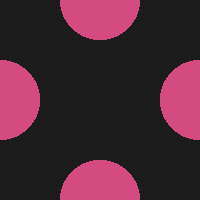
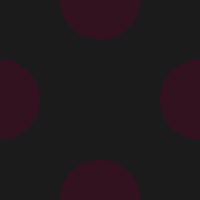
Add files via upload

diff --git a/index.html b/index.html
@@ -23,7 +23,7 @@
 			<div class="title-message">
 			Coming soon...
 			</div>
-			<button class="toggledarkbutton" onclick="toggleLightDark()"><img src="Photos/toggledarklight.png" class="toggledarkicon" id="toggledarkicon"></button>
+			<button class="toggledarkbutton" onclick="toggleLightDark()"><img src="Photos/toggledark.png" class="toggledarkicon" id="toggledarkicon"></button>
       <div class="navbar">
 <a href="google.com">What's up?</a>
         <div class="search-container">
@@ -38,14 +38,16 @@
       </div>
 		</div>
 		<div class="main-content">
-      Yo
+			<div class="introduction">
+				Yo
+			</div>
 		</div>
 	</div>
 	<!Importiert script.js!>
   <!JS steht für JavaScript!>
   <script src="script.java"></script>
   <script>var content = document.querySelector('.content'); if(localStorage.getItem('darkmode')!=null){ content.classList.add("dark-mode");}
-  var content = document.querySelector('.toggledarkbutton'); if(localStorage.getItem('darkmode')!=null){ $('.toggledarkbutton').addClass('dark-mode toggledarkbutton-dark'); $('.header').addClass('header-dark'); $('.toggledarkicon').attr('src','Photos/toggledarkdark.png');}</script>
+  var content = document.querySelector('.toggledarkbutton'); if(localStorage.getItem('darkmode')!=null){ $('.toggledarkbutton').addClass('dark-mode toggledarkbutton-dark'); $('.header').addClass('header-dark'); $('.toggledarkicon').attr('src','Photos/toggledark.png'); $('.navbar').addClass('navbar-dark'); $('#toggledarkicon').attr('src','photos/toggledark-dark.png');}</script>
   <script>
 const f = document.getElementById('search-form');
       const q = document.getElementById('query');

diff --git a/style.css b/style.css
@@ -12,7 +12,7 @@ body{
 
 .header-dark{
 	background-color:#151515;
-	border-bottom: 5px solid #d34b80;
+	border-bottom: 5px solid #33121F;
 }
 
 .content{
@@ -59,7 +59,7 @@ body{
 }
 
 #search-form{
-	border: 1px solid #999;
+	border: 1px solid #913459;
 	border-radius: 25px;
 	width: 300px;
 	height: 44px;
@@ -70,6 +70,8 @@ body{
 
 .search-button{
 	all: unset;
+	margin-left: 60px;
+	color: #913459;
 }
 
 .navbar{
@@ -91,7 +93,7 @@ padding: 10px 0;
 
 .navbar-dark{
   background-color:#FFFFFF10;
-  border-top: 5px solid #d34b80;
+  border-top: 5px solid #33121F;
 }
 div{
   display: block;
@@ -99,4 +101,8 @@ div{
 
 a{
   all:unset;
+}
+
+.main-content{
+	margin: 10px;
 }

diff --git a/script.java b/script.java
@@ -10,8 +10,8 @@ function toggleLightDark() {
 	 window.localStorage.removeItem('darkmode');
   }
   if(localStorage.getItem('darkmode')==null){
-	$('#toggledarkicon').attr('src','photos/toggledarklight.png');
+	$('#toggledarkicon').attr('src','photos/toggledark.png');
   } else {
-	  $('#toggledarkicon').attr('src','photos/toggledarkdark.png');
+	  $('#toggledarkicon').attr('src','photos/toggledark-dark.png');
   }
 }

diff --git a/README.md b/README.md
@@ -17,8 +17,7 @@ Um dieses Projekt zu starten befolge diese Schritte:
 
 # Aktuelle Probleme
 
-+ May look weird if the screen resolution isn't 1920x1080 and the Window isn't maximized
-
++ Die Icons vom Dark Mode Button laden nicht
 # Content Checklist
 
 - [x] Title
